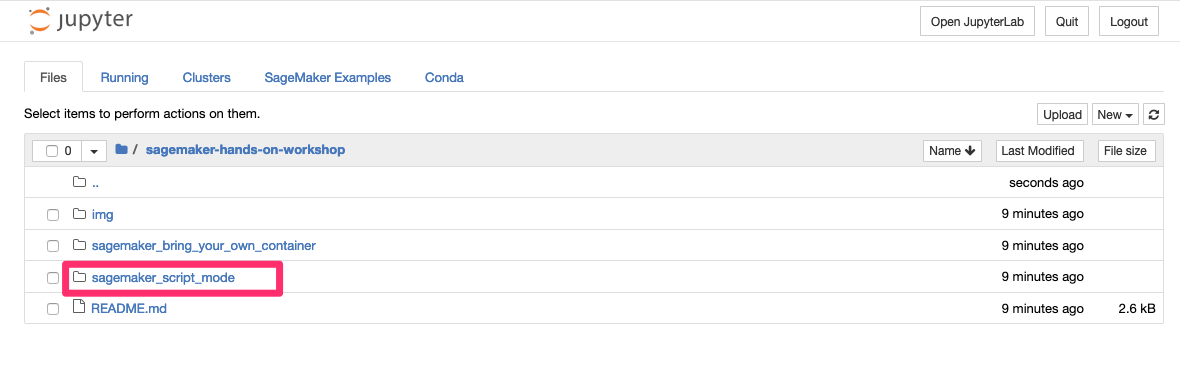
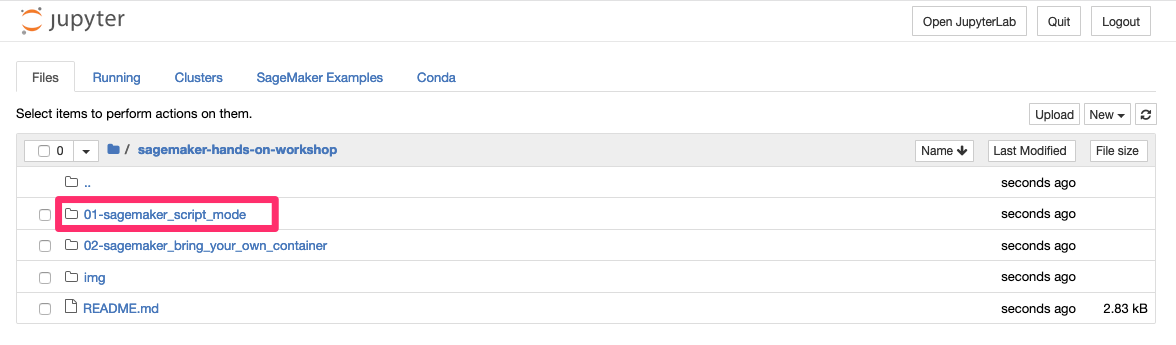
Modified files names

diff --git a/README.md b/README.md
@@ -70,10 +70,10 @@ Select `Open Jupyter`.
 Click the `sagemaker-hands-on-workshop` folder in your Jupyter notebook.
 ![Start Workshop](img/start_workshop_1.png)
 
-Click the `sagemaker_script_mode` folder in your Jupyter notebook.
+Click the `01-sagemaker_script_mode` folder in your Jupyter notebook.
 ![Start Workshop](img/start_workshop_2.png)
 
 
-Click the `02_tensorflow_keras_CIFAR10.ipynb` in your Jupyter notebook and start the workshop!
+Click the `tensorflow_keras_CIFAR10.ipynb` in your Jupyter notebook and start the workshop!
 
 ![Start Workshop](img/start_workshop_3.png)
